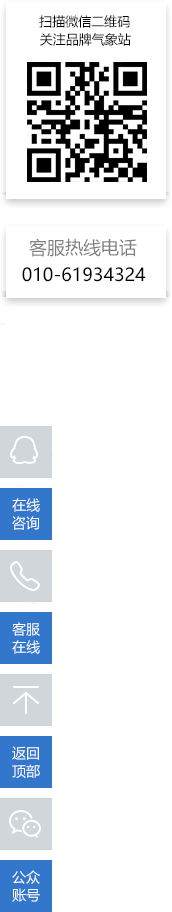
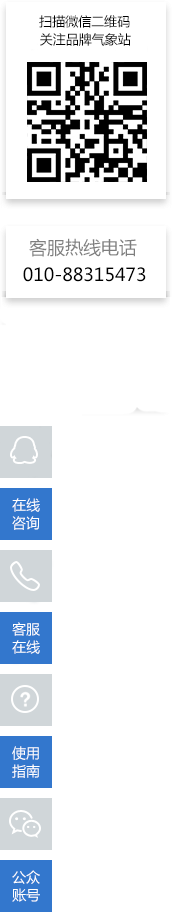
添加排除词，使用指南

Changed region(s): [[0.0581, 0.7368, 0.2326, 0.8596], [0.3488, 0.2763, 0.843, 0.307], [0.1163, 0.2763, 0.3198, 0.307]]

diff --git a/src/components/Setting/Form/Form.vue b/src/components/Setting/Form/Form.vue
@@ -34,7 +34,7 @@
                             <div class="col-sm-4">
                                 <input type="text" v-model="topicText" class="form-control" id="topicText" :placeholder="words.topicInfo">
                             </div>
-                            <div class="col-sm-4 tip">{{words.required}}</div>
+                            <div class="col-sm-4 tip color-red">{{words.required}}</div>
                         </div>
                         <div class="form-group" v-show="isAdvanced">
                             <label for="topicArr" class="col-sm-2 control-label">{{words.topicArr}}</label>
@@ -223,6 +223,7 @@
                         this.errorTip = "";
                         //this.radioVal = "";
                         this.topicText = "";
+                        this.excludeText="";
                         return Api.getTopicList({});
                     }
                 }).then(resp => {
@@ -265,6 +266,7 @@
                         this.errorTip = "";
                         //this.radioVal = "";
                         this.topicText = "";
+                        this.excludeText="";
 
                     console.log(newTopicName);
                         return Api.getTopicList({})
@@ -307,7 +309,8 @@
                     group_id: this.radioVal,
                     name: this.dealSymbol(this.trim(this.topicText)),
                     monitor:this.monitor,
-                    threshold:this.threshold
+                    threshold:this.threshold,
+                    except:this.excludeText
                 });
             },
             topicUp(){
@@ -316,7 +319,8 @@
                     group_id:this.radioVal,
                     name: this.dealSymbol(this.trim(this.topicText)),
                     monitor:this.monitor,
-                    threshold:this.threshold
+                    threshold:this.threshold,
+                    except:this.excludeText
                 });
             },
             updateInit(){
@@ -334,6 +338,7 @@
                         .first().value();
                 console.log('group.list:',group.list);
                 this.topicText = topic.topic_name;
+                this.excludeText=topic.except;
 
                  this.radioVal = group_id;
 

diff --git a/src/components/Profile/Profile.vue b/src/components/Profile/Profile.vue
@@ -236,6 +236,7 @@
     import _ from 'underscore';
     import HeaderComponent from '../Header/Header.vue';
     import Local from '../../local/local';
+    import Cookie from 'js-cookie';
     import { getCookie } from '../../widgets/Cookie';
     import { formatSize } from '../../widgets/Util';
     import * as Api from '../../widgets/Api';
@@ -420,8 +421,10 @@
                             this.successTip='';
                             this.addSuccessTip = false;
                             this.showMine('showMsg');
+                            Cookie.set('business_name',params.username);
+                            window.location.reload();
                         }.bind(this),1000)
-                        this.getUserInfo();
+                        //this.getUserInfo();
                     }
                     if(resp.data.code == 100){
                             this.tip=resp.data.message;
@@ -451,7 +454,7 @@
                         this.userInfo.avatar = detail.avatar;
                         this.userInfo.email = detail.email;
                         this.userInfo.phone = detail.phone;
-                        this.setHeaderName( this.userInfo.username);
+
                         console.log(this.userInfo);
                     }
                 })

diff --git a/src/components/QQservice/QQservice.vue b/src/components/QQservice/QQservice.vue
@@ -16,7 +16,7 @@
             <h3>客服热线电话</h3>
             <span>{{common.phone}}</span>
         </div></a>
-        <!--<a href="#dfs1" id="top"  class="toolbar-item toolbar-item-top"></a>-->
+        <a href="javascript:void(0);" id="top"  class="toolbar-item toolbar-item-top" v-link="{name:routeName}"></a>
     </div>
 
 
@@ -39,6 +39,7 @@
             return{
                 words,
                 common,
+                routeName:'instruction',
                 start:'2016-12-05',
                 end:'2016-12-11',
                 topic:'罗一笑',
@@ -47,13 +48,12 @@
         },
         methods: {
             //my functions
-
+            toInstruction(){
+                this.$router.go('/toInstruction')
+            },
             showDetail(){
-
                 console.log('q2w');
-
                 document.body.scrollTop = 0;
-
             },
 
 

diff --git a/src/widgets/Api.js b/src/widgets/Api.js
@@ -14,8 +14,8 @@ Vue.http.options.xhr = { withCredentials: true };//跨域问题
 Vue.use(VueResource);
 
 const myURI = "http://127.0.0.1:3000";
-const rootURI = "http://118.244.212.122:8008";
-//const rootURI = "http://123.196.116.135:8008";
+//const rootURI = "http://118.244.212.122:8008";
+const rootURI = "http://123.196.116.135:8009";
 const plainURI = "http://192.168.1.76";
 //扩展api添加access_token字段
 const Api = {

diff --git a/src/components/Setting/Menu/Menu.vue b/src/components/Setting/Menu/Menu.vue
@@ -90,7 +90,7 @@
             topicAction(){
                 return (item, group_id) => {
                     console.log(item, group_id);
-                    this.$router.go({name: 'settingEdit', params: {topic_id: item.topic_id, group_id}});
+                    this.$router.go({name: 'settingEdit', params: {topic_id: item.topic_id, group_id,except:item.except}});
                 };
             },
             init(){

diff --git a/src/components/Header/Header.vue b/src/components/Header/Header.vue
@@ -85,11 +85,6 @@
                     name: words.setting,
                     icon: "fa-cog",
                     link: "setting"
-                },{
-                    id:"instruction",
-                    name:words.forUse,
-                    icon:"fa-hand-o-right",
-                    link:"instruction"
                 }]
             }
         },

diff --git a/src/components/Header/Header.less b/src/components/Header/Header.less
@@ -3,7 +3,7 @@
 @left-w: 180px;
 
 .header{
-  .pr();  .z(1030);.h(@h);.mw(1400px);
+  .pr();  .z(1030);.h(@h);.mw(1250px);
   .top(0);  .left(0);  .right(0); .bgc(@body-theme);
 
   .logo{

diff --git a/src/components/Setting/Form/Form.less b/src/components/Setting/Form/Form.less
@@ -17,6 +17,7 @@
     &-con{
       .mg(10px 20px);
       .tip{ .lh(30px);  .c(#9e9e9e); }
+      .color-red{color:red}
       .error{ // .ff("pingfang-bold");
         .c(red); }
     }

diff --git a/src/components/Summary/Summary.less b/src/components/Summary/Summary.less
@@ -1,7 +1,7 @@
 @import "../common.less";
 
 .divAnaBox{
-  .mw(1400px);
+  .mw(1250px);
   //overflow: hidden;
   background-color: #f4f4f4;
   min-height: 100%;

diff --git a/src/components/Analytics/Analytics.less b/src/components/Analytics/Analytics.less
@@ -1,7 +1,7 @@
 @import "../common.less";
 
 .divAnaBox{
-  .mw(1400px);
+  .mw(1250px);
   overflow: hidden;
   background-color: #f4f4f4;
   min-height: 100%;

diff --git a/src/components/Compare/Compare.less b/src/components/Compare/Compare.less
@@ -1,7 +1,7 @@
 @import "../common.less";
 
 .divBox{
-  .mw(1400px);
+  .mw(1250px);
   overflow: hidden;
   background-color: #fff;
  /* height: 100%;*/
